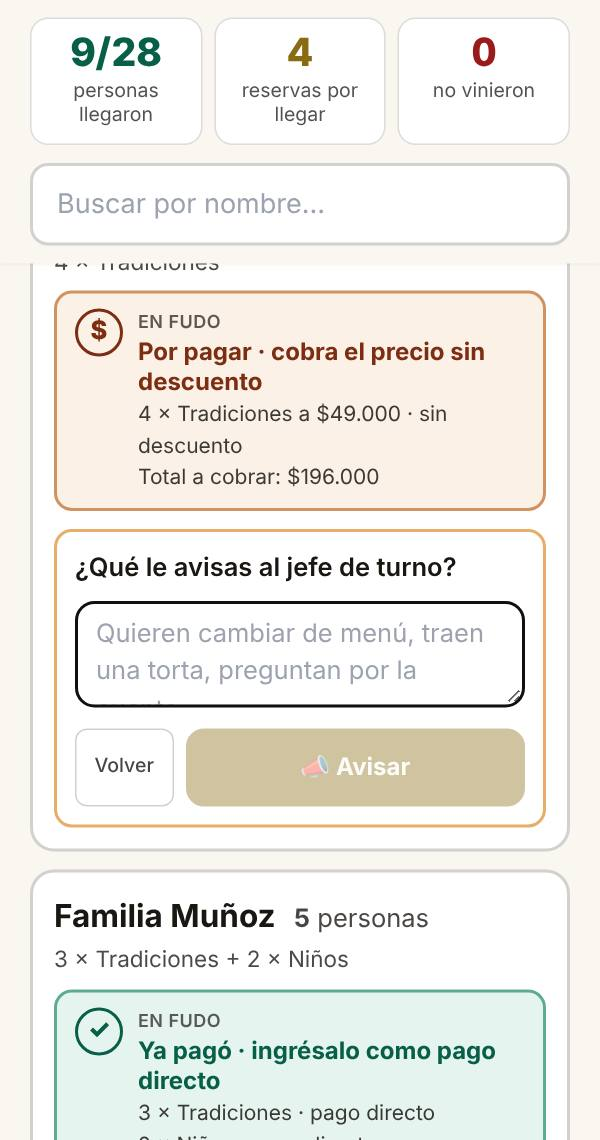
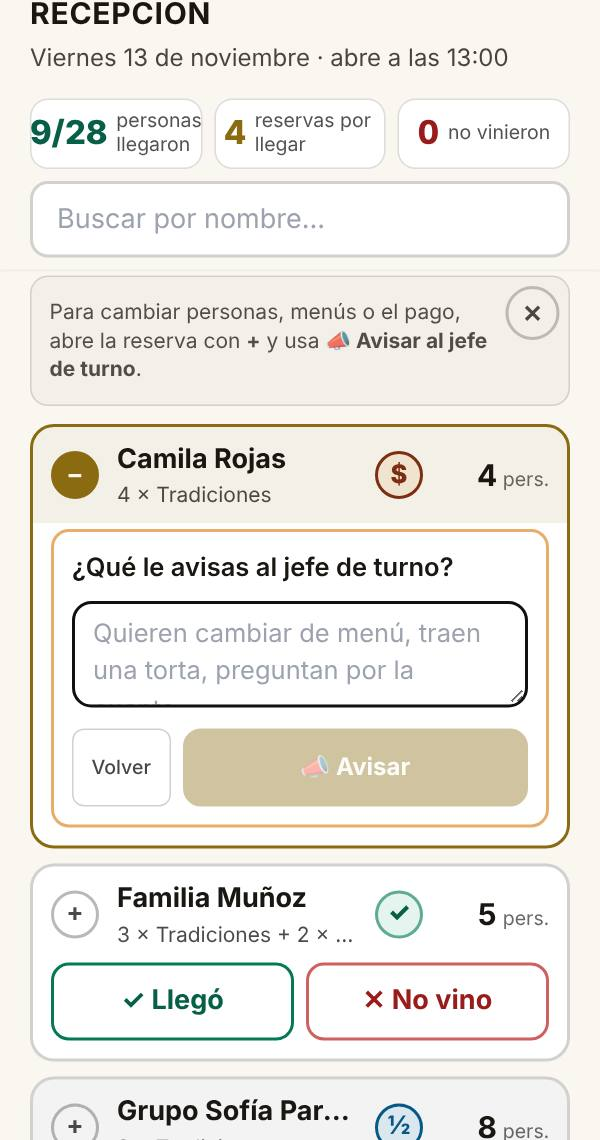
Recepción compacta: una fila por reserva, con Llegó y No vino a la vista
Lo pidió el cliente: compactar la información y que cada reserva se pueda
colapsar sin esconder lo que se usa, que es Llegó o No vino. Cada reserva
es ahora una fila de dos pisos: arriba la misma fila de la página del día
—(+), nombre y menú, el círculo de Fudo y la gente—, abajo Llegó / No
vino. Con (+) se abre cómo ingresarla en Fudo y Avisar al jefe de turno;
al apretar Llegó, la pregunta trae la caja de Fudo, porque ahí se abre la
mesa. Los números de arriba van en una franja más baja. A 393px una
reserva por llegar pasó de unos 390px a 132.

Misiones de la anfitriona y del encargado (textos, capturas y puntos) y
el ? de Recepción, al día. El rótulo EN FUDO sube a 13px.

Claude-Session: https://claude.ai/code/session_01SbCpLYfntmdHmiP7MEtaZ6

Changed region(s): [[0.03, 0.0, 0.96, 1.0], [0.27, 0.6447, 0.33, 0.7061], [0.03, 0.1535, 0.06, 0.1842]]

diff --git a/panel/src/components/RecepcionVista.tsx b/panel/src/components/RecepcionVista.tsx
@@ -5,7 +5,14 @@
  * anfitriona, *"con un tablet en la mano y simplemente recibiendo la
  * gente"*. Solo hoy, solo lo justo para recibir, y todo grande.
  *
- * - **Llegó / No vino**, dos botones gigantes por reserva.
+ * - **Llegó / No vino**, dos botones grandes por reserva, siempre a la vista.
+ * - **Cada reserva es una fila de dos pisos** (2026-11-13, lo pidió el
+ *   cliente: *"compactar toda la información… colapsar pero sin colapsar,
+ *   que ya hay el botón simplemente vino o no vino"*). Arriba la misma fila
+ *   de la página del día —(+), nombre y menú, el círculo de Fudo y la
+ *   gente—; abajo Llegó / No vino. Con (+) se abre cómo ingresarla en Fudo y
+ *   *Avisar al jefe de turno*. Una reserva por llegar medía unos 390px en el
+ *   celular (cabía una y media por pantalla); ahora unos 130.
  * - Al apretar *Llegó* pregunta **¿Llegaron las N?**: *Sí* de un toque, o un
  *   contador − / + si llegaron más o menos. Lo distinto **no cambia la
  *   reserva**: queda en `Llegaron` y le avisa solo al jefe de turno, que es
@@ -20,7 +27,7 @@
  * alguien marcó desde otro lado.
  */
 import AvisoFijo from './AvisoFijo';
-import IngresoFudo from './IngresoFudo';
+import IngresoFudo, { IconoFudo } from './IngresoFudo';
 import { usarSoloMira } from './SesionCliente';
 import type { Ingreso } from '@/lib/fudo';
 import { useEffect, useMemo, useState } from 'react';
@@ -61,6 +68,11 @@ export default function RecepcionVista() {
    * la vuelve a abrir.
    */
   const [abierta, setAbierta] = useState(0);
+  /** Las reservas abiertas con (+): cómo ingresarla en Fudo y Avisar. */
+  const [expandidas, setExpandidas] = useState<Set<number>>(new Set());
+  const alternar = (fila: number) => setExpandidas((x) => {
+    const y = new Set(x); if (y.has(fila)) y.delete(fila); else y.add(fila); return y;
+  });
 
   const cargar = () => fetch('/api/recepcion').then((r) => r.json()).then((x) => {
     if (x.error) return setError(x.error);
@@ -134,30 +146,35 @@ export default function RecepcionVista() {
           lista: en el celular, quien recibe busca un nombre tras otro y no
           puede volver a subir cada vez. Llevan su propio fondo para que la
           lista no se vea por debajo. */}
-      <div className="sticky top-0 z-10 -mx-5 mt-2 bg-tinta px-5 pb-3 pt-3 shadow-sm">
+      <div className="sticky top-0 z-10 -mx-5 mt-2 bg-tinta px-5 pb-2 pt-2 shadow-sm">
       <div className="grid grid-cols-3 gap-2">
         {([
           [`${llegaron}/${esperadas}`, 'personas llegaron', 'text-verde-texto'],
           [String(porLlegar), porLlegar === 1 ? 'reserva por llegar' : 'reservas por llegar', 'text-oro'],
           [String(noVinieron), noVinieron === 1 ? 'no vino' : 'no vinieron', 'text-rojo-texto']
         ] as const).map(([n, que, color]) => (
-          <div key={que} className="rounded-xl border border-hueso/15 bg-panel px-2 py-2.5 text-center">
-            <p className={`text-[26px] font-extrabold leading-none tabular-nums sm:text-[30px] ${color}`}>{n}</p>
-            <p className="mt-1 text-[13px] leading-tight text-hueso/75 sm:text-[14px]">{que}</p>
+          // **Más bajos** (2026-11-13): el número y su palabra en la misma
+          // línea. Antes cada uno ocupaba dos y la franja fija de arriba se
+          // comía un cuarto de la pantalla del celular.
+          <div key={que} className="flex items-center justify-center gap-1.5 rounded-xl border border-hueso/15
+                                    bg-panel px-1.5 py-1.5 sm:gap-2 sm:py-2">
+            <p className={`text-[22px] font-extrabold leading-none tabular-nums sm:text-[26px] ${color}`}>{n}</p>
+            <p className="text-left text-[13px] leading-tight text-hueso/75 sm:text-[14px]">{que}</p>
           </div>
         ))}
       </div>
 
       <input value={busca} onChange={(e) => setBusca(e.target.value)} type="search"
         placeholder="Buscar por nombre…" aria-label="Buscar reserva por nombre"
-        className="mt-3 w-full rounded-xl border-2 border-hueso/20 bg-panel px-4 py-3 text-[18px]
+        className="mt-2 w-full rounded-xl border-2 border-hueso/20 bg-panel px-4 py-2.5 text-[18px]
                    outline-none focus:border-oro" />
       </div>
 
       {/* Una sola vez y no en cada tarjeta: repetida era ruido. */}
       {!bloqueada && (
         <AvisoFijo clave="recepcion-avisar" className="mt-1">
-          Para cambiar personas, menús o el pago, usa <strong>📣 Avisar al jefe de turno</strong>.
+          Para cambiar personas, menús o el pago, abre la reserva con <strong>+</strong> y usa
+          {' '}<strong>📣 Avisar al jefe de turno</strong>.
         </AvisoFijo>
       )}
 
@@ -168,66 +185,69 @@ export default function RecepcionVista() {
         <p className="mt-6 text-[17px] text-hueso/70">Nadie calza con “{busca}”.</p>
       )}
 
-      <ul className="mt-3 grid grid-cols-1 items-start gap-3 md:grid-cols-2">
+      <ul className="mt-3 grid grid-cols-1 items-start gap-2.5 md:grid-cols-2">
         {lista.map((r) => {
           const vino = r.asistencia === ASISTENCIA.vino;
           const noVino = r.asistencia === ASISTENCIA.noVino;
           const n = r.llegaron ?? r.personas;
-          // Ya recibida y sin tocar: una línea. Abierta a mano, contando o
-          // avisando, la tarjeta entera.
-          if ((vino || noVino) && abierta !== r.fila && contando?.fila !== r.fila && avisando?.fila !== r.fila) {
-            return (
-              <li key={r.fila} className={`flex min-w-0 items-center gap-3 rounded-xl border-2 px-3 py-2 ${vino
-                ? 'border-verde/40 bg-verde/[0.06]' : 'border-rojo/35 bg-rojo/[0.05]'}`}>
-                <span aria-hidden className={`text-[22px] font-bold ${vino ? 'text-verde-texto' : 'text-rojo-texto'}`}>
-                  {vino ? '✓' : '✕'}
+          const marcada = vino || noVino;
+          const abiertaEsta = expandidas.has(r.fila);
+          const contandoEsta = contando?.fila === r.fila;
+          const avisandoEsta = avisando?.fila === r.fila;
+          // Una marcada vuelve a ofrecer Llegó / No vino solo con *Cambiar*.
+          const cambiandoEsta = abierta === r.fila;
+          return (
+            <li key={r.fila} className={`min-w-0 overflow-hidden rounded-2xl border-2 ${vino
+              ? 'border-verde/50 bg-verde/[0.06]' : noVino ? 'border-rojo/40 bg-rojo/[0.05]'
+              : abiertaEsta ? 'border-oro bg-panel' : 'border-hueso/20 bg-panel'}`}>
+              {/* **El primer piso: la misma fila de la página del día**, más
+                  grande porque se usa de pie y con un tablet. (+), quién y qué
+                  menú, el círculo de Fudo y la gente. */}
+              <button type="button" aria-expanded={abiertaEsta} onClick={() => alternar(r.fila)}
+                className={`tecla flex min-h-[60px] w-full items-center gap-3 px-3 py-2 text-left
+                            ${abiertaEsta ? 'bg-oro/10' : 'hover:bg-hueso/5'}`}>
+                <span aria-hidden className={`flex h-8 w-8 shrink-0 items-center justify-center rounded-full
+                                             border-2 text-[17px] font-bold ${abiertaEsta
+                  ? 'border-oro bg-oro text-tinta' : 'border-hueso/30 text-hueso/70'}`}>
+                  {abiertaEsta ? '−' : '+'}
                 </span>
                 <span className="min-w-0 flex-1">
-                  <span className="block truncate text-[17px] font-semibold">{r.nombre || 'Sin nombre'}</span>
-                  <span className={`block text-[14px] ${vino && n !== r.personas ? 'font-semibold text-ambar-texto'
-                    : 'text-hueso/70'}`}>
-                    {vino ? `Llegaron ${n}${n !== r.personas ? ` de ${r.personas}` : ''}` : 'No vino'}
-                    {r.avisoRecepcion && ' · 📣 avisado'}
+                  <span className={`block truncate text-[18px] font-bold ${noVino ? 'line-through opacity-70' : ''}`}>
+                    {r.nombre || 'Sin nombre'}
                   </span>
+                  {r.menu && <span className="block truncate text-[14px] text-hueso/70">{r.menu}</span>}
                 </span>
-                {!bloqueada && (
-                  <button type="button" className="boton min-h-[44px] shrink-0"
-                    onClick={() => setAbierta(r.fila)}>Cambiar</button>
-                )}
-              </li>
-            );
-          }
-          return (
-            <li key={r.fila} className={`min-w-0 rounded-2xl border-2 p-3.5 sm:p-4 ${vino
-              ? 'border-verde/50 bg-verde/[0.06]' : noVino ? 'border-rojo/40 bg-rojo/[0.05] opacity-80'
-              : 'border-hueso/20 bg-panel'}`}>
-              <div className="flex flex-wrap items-baseline gap-x-3">
-                <p className="text-[21px] font-bold">{r.nombre || 'Sin nombre'}</p>
-                <p className="text-[17px] text-hueso/80">
-                  <strong className="tabular-nums">{r.personas}</strong> {r.personas === 1 ? 'persona' : 'personas'}
-                </p>
-              </div>
-              {r.menu && <p className="mt-0.5 text-[15px] text-hueso/70">{r.menu}</p>}
-              {/* **Cómo se ingresa en Fudo** (2026-11-11, lo pidió el
-                  cliente): lo primero que mira quien abre la mesa. */}
-              {!noVino && <div className="mt-2"><IngresoFudo ingreso={r.ingreso} /></div>}
+                {!noVino && <IconoFudo ingreso={r.ingreso} />}
+                <span className="w-[4.5rem] shrink-0 text-right text-[20px] font-bold tabular-nums">
+                  {r.personas}<span className="ml-1 text-[13px] font-normal text-hueso/65">pers.</span>
+                </span>
+              </button>
 
-              {vino && (
-                <p className="mt-2 text-[17px] font-semibold text-verde-texto">
-                  ✓ Llegaron {n}{n !== r.personas && <span className="text-ambar-texto"> de {r.personas}</span>}
-                </p>
-              )}
-              {noVino && <p className="mt-2 text-[17px] font-semibold text-rojo-texto">✕ No vino</p>}
+              {/* El aviso ya mandado, a la vista sin abrirla. */}
               {r.avisoRecepcion && (
-                <p className="mt-2 rounded-lg border border-ambar/60 bg-ambar/10 px-3 py-2 text-[15px] text-ambar-texto">
+                <p className="mx-3 mb-2 rounded-lg border border-ambar/60 bg-ambar/10 px-3 py-1.5 text-[14px] text-ambar-texto">
                   📣 Avisado al jefe de turno: {r.avisoRecepcion}
                 </p>
               )}
 
-              {/* ¿Llegaron las N? */}
-              {contando?.fila === r.fila ? (
-                <div className="mt-3 rounded-xl border-2 border-verde/50 p-3">
-                  <p className="text-[18px] font-semibold">¿Llegaron las {r.personas}?</p>
+              {/* Abierta con (+): cómo ingresarla en Fudo y Avisar. */}
+              {abiertaEsta && !contandoEsta && !avisandoEsta && (
+                <div className="space-y-2 border-t border-hueso/10 px-3 py-2.5">
+                  {!noVino && <IngresoFudo ingreso={r.ingreso} />}
+                  {!bloqueada && (
+                    <button type="button" className="boton min-h-[48px] w-full !text-[15px]"
+                      onClick={() => setAvisando({ fila: r.fila, texto: '' })}>📣 Avisar al jefe de turno</button>
+                  )}
+                </div>
+              )}
+
+              {/* El segundo piso. */}
+              {contandoEsta ? (
+                <div className="mx-3 mb-3 mt-1 rounded-xl border-2 border-verde/50 p-3">
+                  {/* Al apretar Llegó se abre la mesa: lo que hay que
+                      ingresar en Fudo va acá mismo, sin abrir nada. */}
+                  <IngresoFudo ingreso={r.ingreso} compacto />
+                  <p className="mt-3 text-[18px] font-semibold">¿Llegaron las {r.personas}?</p>
                   <button type="button" disabled={!!guardando}
                     onClick={() => { setContando(null); void llego(r, r.personas); }}
                     className="tecla mt-2 min-h-[60px] w-full rounded-xl border-2 border-verde-fuerte bg-verde-fuerte
@@ -252,8 +272,8 @@ export default function RecepcionVista() {
                   </p>
                   <button type="button" className="boton mt-2 min-h-[44px]" onClick={() => setContando(null)}>Volver</button>
                 </div>
-              ) : avisando?.fila === r.fila ? (
-                <div className="mt-3 rounded-xl border-2 border-ambar/60 p-3">
+              ) : avisandoEsta ? (
+                <div className="mx-3 mb-3 mt-1 rounded-xl border-2 border-ambar/60 p-3">
                   <p className="text-[17px] font-semibold">¿Qué le avisas al jefe de turno?</p>
                   <textarea value={avisando.texto} autoFocus rows={2} maxLength={250}
                     onChange={(e) => setAvisando({ fila: r.fila, texto: e.target.value })}
@@ -267,33 +287,39 @@ export default function RecepcionVista() {
                       className="boton boton-relleno boton-hito flex-1 disabled:opacity-40">📣 Avisar</button>
                   </div>
                 </div>
+              ) : marcada && !cambiandoEsta ? (
+                // Ya recibida: lo que quedó, y *Cambiar* por si fue un error.
+                <div className="flex items-center gap-2 px-3 pb-2.5">
+                  <span className={`flex-1 text-[16px] font-bold ${vino
+                    ? (n !== r.personas ? 'text-ambar-texto' : 'text-verde-texto') : 'text-rojo-texto'}`}>
+                    {vino ? `✓ Llegaron ${n}${n !== r.personas ? ` de ${r.personas}` : ''}` : '✕ No vino'}
+                  </span>
+                  {!bloqueada && (
+                    <button type="button" className="boton min-h-[44px] shrink-0"
+                      onClick={() => setAbierta(r.fila)}>Cambiar</button>
+                  )}
+                </div>
               ) : !bloqueada && (
-                <>
-                  <div className="mt-3 grid grid-cols-2 gap-2">
-                    <button type="button" disabled={!!guardando}
-                      onClick={() => setContando({ fila: r.fila, n: r.personas })}
-                      className={`tecla min-h-[64px] rounded-xl border-2 text-[20px] font-bold ${vino
-                        ? 'border-verde-fuerte bg-verde-fuerte text-tinta'
-                        : 'border-verde-fuerte text-verde-texto hover:bg-verde/10'}`}>
-                      ✓ Llegó
-                    </button>
-                    <button type="button" disabled={!!guardando}
-                      onClick={() => { setAbierta(0); void guardar(r, { asistencia: noVino ? '' : ASISTENCIA.noVino, llegaron: null },
-                        noVino ? `${r.nombre}: sin marcar` : `${r.nombre}: no vino`); }}
-                      className={`tecla min-h-[64px] rounded-xl border-2 text-[20px] font-bold ${noVino
-                        ? 'border-rojo-fuerte bg-rojo-fuerte text-white'
-                        : 'border-rojo-fuerte/70 text-rojo-texto hover:bg-rojo/10'}`}>
-                      ✕ No vino
-                    </button>
-                  </div>
-                  <div className="mt-2 flex gap-2">
-                    <button type="button" className="boton min-h-[48px] flex-1 !text-[15px]"
-                      onClick={() => setAvisando({ fila: r.fila, texto: '' })}>📣 Avisar al jefe de turno</button>
-                    {abierta === r.fila && (
-                      <button type="button" className="boton min-h-[48px]" onClick={() => setAbierta(0)}>Listo</button>
-                    )}
-                  </div>
-                </>
+                <div className="grid grid-cols-2 gap-2 px-3 pb-3">
+                  <button type="button" disabled={!!guardando}
+                    onClick={() => setContando({ fila: r.fila, n: r.personas })}
+                    className={`tecla min-h-[52px] rounded-xl border-2 text-[18px] font-bold ${vino
+                      ? 'border-verde-fuerte bg-verde-fuerte text-tinta'
+                      : 'border-verde-fuerte text-verde-texto hover:bg-verde/10'}`}>
+                    ✓ Llegó
+                  </button>
+                  <button type="button" disabled={!!guardando}
+                    onClick={() => { setAbierta(0); void guardar(r, { asistencia: noVino ? '' : ASISTENCIA.noVino, llegaron: null },
+                      noVino ? `${r.nombre}: sin marcar` : `${r.nombre}: no vino`); }}
+                    className={`tecla min-h-[52px] rounded-xl border-2 text-[18px] font-bold ${noVino
+                      ? 'border-rojo-fuerte bg-rojo-fuerte text-white'
+                      : 'border-rojo-fuerte/70 text-rojo-texto hover:bg-rojo/10'}`}>
+                    ✕ No vino
+                  </button>
+                  {cambiandoEsta && (
+                    <button type="button" className="boton col-span-2 min-h-[44px]" onClick={() => setAbierta(0)}>Listo</button>
+                  )}
+                </div>
               )}
             </li>
           );

diff --git a/panel/src/lib/misiones.ts b/panel/src/lib/misiones.ts
@@ -45,13 +45,13 @@ const ANFITRION: Mision[] = [
     puntos: [
       'Cuánta gente llegó de la que se espera hoy. Se pone al día solo cada minuto.',
       'Busca a quien llega por su nombre: no hace falta bajar por toda la lista.',
-      'Cada reserva trae sus dos botones grandes: Llegó o No vino.'
+      'Cada reserva es una fila con Llegó y No vino a la vista. El círculo dice cómo viene el pago; con + ves el detalle.'
     ],
     probar: { texto: 'Abrir la recepción', url: '/recepcion' }
   },
   {
     id: 'llego', emoji: '✅', titulo: 'Llegó: ¿llegaron todos?', escena: 'anf-llego',
-    intro: 'Al apretar Llegó te pregunta si llegaron todas las personas de esa reserva.',
+    intro: 'Al apretar Llegó te muestra cómo ingresarla en Fudo y te pregunta si llegaron todas las personas de esa reserva.',
     puntos: [
       'Si llegaron todas, un toque y listo.',
       'Si llegaron más o menos, cuéntalas con − y +.',
@@ -61,17 +61,17 @@ const ANFITRION: Mision[] = [
   },
   {
     id: 'cobrar', emoji: '💵', titulo: 'Qué cobrar al abrir la mesa', escena: 'anf-fudo',
-    intro: 'Cada reserva dice cómo ingresarla en Fudo, con el precio que corresponde.',
+    intro: 'El círculo de cada reserva dice cómo viene el pago: ✓ ya pagó, $ se cobra, ½ abonó, ! ojo. Ábrela con + para ver cómo ingresarla en Fudo.',
     puntos: [
-      'Por pagar: se cobra el precio sin descuento, y aquí está el total.',
-      'Ya pagó: se ingresa como pago directo, sin cobrarle el menú.',
+      'El círculo: cómo viene el pago, sin abrir nada.',
+      'Abierta, dice qué cobrar: el precio sin descuento y el total.',
       'Si alguien no llegó, márcalo No vino.'
     ],
     probar: { texto: 'Abrir la recepción', url: '/recepcion' }
   },
   {
     id: 'avisar', emoji: '📣', titulo: 'Avisar al jefe de turno', escena: 'anf-aviso',
-    intro: 'Para lo que no cambias tú —personas, menús, pago o un pedido especial— le escribes al jefe de turno.',
+    intro: 'Para lo que no cambias tú —personas, menús, pago o un pedido especial— abre la reserva con + y le escribes al jefe de turno.',
     puntos: [
       'Escribe el aviso en pocas palabras.',
       'Avisar se lo manda al jefe de turno.',

diff --git a/panel/src/components/IngresoFudo.tsx b/panel/src/components/IngresoFudo.tsx
@@ -15,6 +15,21 @@ const ESTILO: Record<Ingreso['tono'], { caja: string; texto: string; icono: stri
   rojo: { caja: 'border-rojo-fuerte/70 bg-rojo/10', texto: 'text-rojo-texto', icono: '!' }
 };
 
+/**
+ * **Solo el círculo** (2026-11-13), para la fila cerrada de la recepción:
+ * cómo viene el pago sin abrir la reserva. La misma forma y el mismo ícono
+ * de la caja, y el título entero como nombre accesible.
+ */
+export function IconoFudo({ ingreso }: { ingreso: Ingreso | null | undefined }) {
+  if (!ingreso) return null;
+  const e = ESTILO[ingreso.tono];
+  return (
+    <span role="img" aria-label={`En Fudo: ${ingreso.titulo}`} title={ingreso.titulo}
+      className={`flex h-8 w-8 shrink-0 items-center justify-center rounded-full border-2 border-current
+                  text-[17px] font-extrabold ${e.texto} ${e.caja}`}>{e.icono}</span>
+  );
+}
+
 export default function IngresoFudo({ ingreso, compacto = false }: {
   ingreso: Ingreso | null | undefined; compacto?: boolean;
 }) {
@@ -25,7 +40,7 @@ export default function IngresoFudo({ ingreso, compacto = false }: {
       <span aria-hidden className={`flex h-8 w-8 shrink-0 items-center justify-center rounded-full border-2
                                     border-current text-[17px] font-extrabold ${e.texto}`}>{e.icono}</span>
       <div className="min-w-0">
-        <p className="text-[12px] font-semibold uppercase tracking-wide text-hueso/60">En Fudo</p>
+        <p className="text-[13px] font-semibold uppercase tracking-wide text-hueso/60">En Fudo</p>
         <p className={`font-bold leading-tight ${compacto ? 'text-[14px]' : 'text-[16px]'} ${e.texto}`}>
           {ingreso.titulo}
         </p>

diff --git a/panel/src/lib/ayudas.ts b/panel/src/lib/ayudas.ts
@@ -331,10 +331,12 @@ export const AYUDAS: Record<string, Ayuda> = {
     ],
     pasos: [
       'Busca la reserva por nombre.',
-      'Aprieta Llegó o No vino. Una ya marcada se achica; Cambiar la vuelve a '
-      + 'abrir.',
-      'Para todo lo demás —personas, menús, pago, un pedido especial— aprieta '
-      + 'Avisar al jefe de turno y escríbelo.'
+      'Aprieta Llegó o No vino: están a la vista en cada reserva. Una ya '
+      + 'marcada dice qué quedó; Cambiar vuelve a ofrecer los dos botones.',
+      'El círculo de cada reserva dice cómo viene el pago (✓ ya pagó, $ se '
+      + 'cobra, ½ abonó, ! ojo). Con + la abres: cómo ingresarla en Fudo y '
+      + 'Avisar al jefe de turno, para todo lo demás —personas, menús, pago, un '
+      + 'pedido especial—.'
     ],
     ojo: 'Antes de la hora de apertura, o con el día cerrado, los botones no '
        + 'aparecen.'

diff --git a/panel/CLAUDE.md b/panel/CLAUDE.md
@@ -5607,6 +5607,20 @@ vino o no vino. Por ahora"*. El rol se usa **solo el día de apertura**.
   corrimiento lateral.
 - **Pendiente, a propósito**: *"Llegó alguien sin reserva"*. El cliente lo
   dejó para después.
+- **Compacta: cada reserva es una fila de dos pisos** (2026-11-13, lo pidió
+  el cliente: *"compactar toda la información… colapsar pero sin colapsar,
+  que ya hay el botón simplemente vino o no vino"*). Arriba, **la misma fila
+  de la página del día**, más grande porque se usa de pie: (+), nombre y
+  menú, **el círculo de Fudo** (`IconoFudo`: ✓ ya pagó, $ se cobra, ½ abonó,
+  ! ojo) y la gente. Abajo, **Llegó / No vino siempre a la vista**. Con (+)
+  se abre la caja entera de Fudo y *📣 Avisar al jefe de turno*; **al
+  apretar Llegó, la pregunta *¿Llegaron las N?* trae la caja de Fudo**,
+  porque es cuando se abre la mesa. Una ya recibida dice *✓ Llegaron 4* o
+  *✕ No vino* en el segundo piso, con *Cambiar*. Los tres números de arriba
+  van en una franja más baja (número y palabra en la misma línea). Medido a
+  393px: una reserva por llegar pasó de unos 390px a **132**, de una y media
+  por pantalla a cuatro o cinco. El rótulo *EN FUDO* subió de 12 a 13px.
+  Misiones de la anfitriona y la del encargado, y el `?`, al día.
 
 ### El middleware autentica, cada ruta autoriza
 
